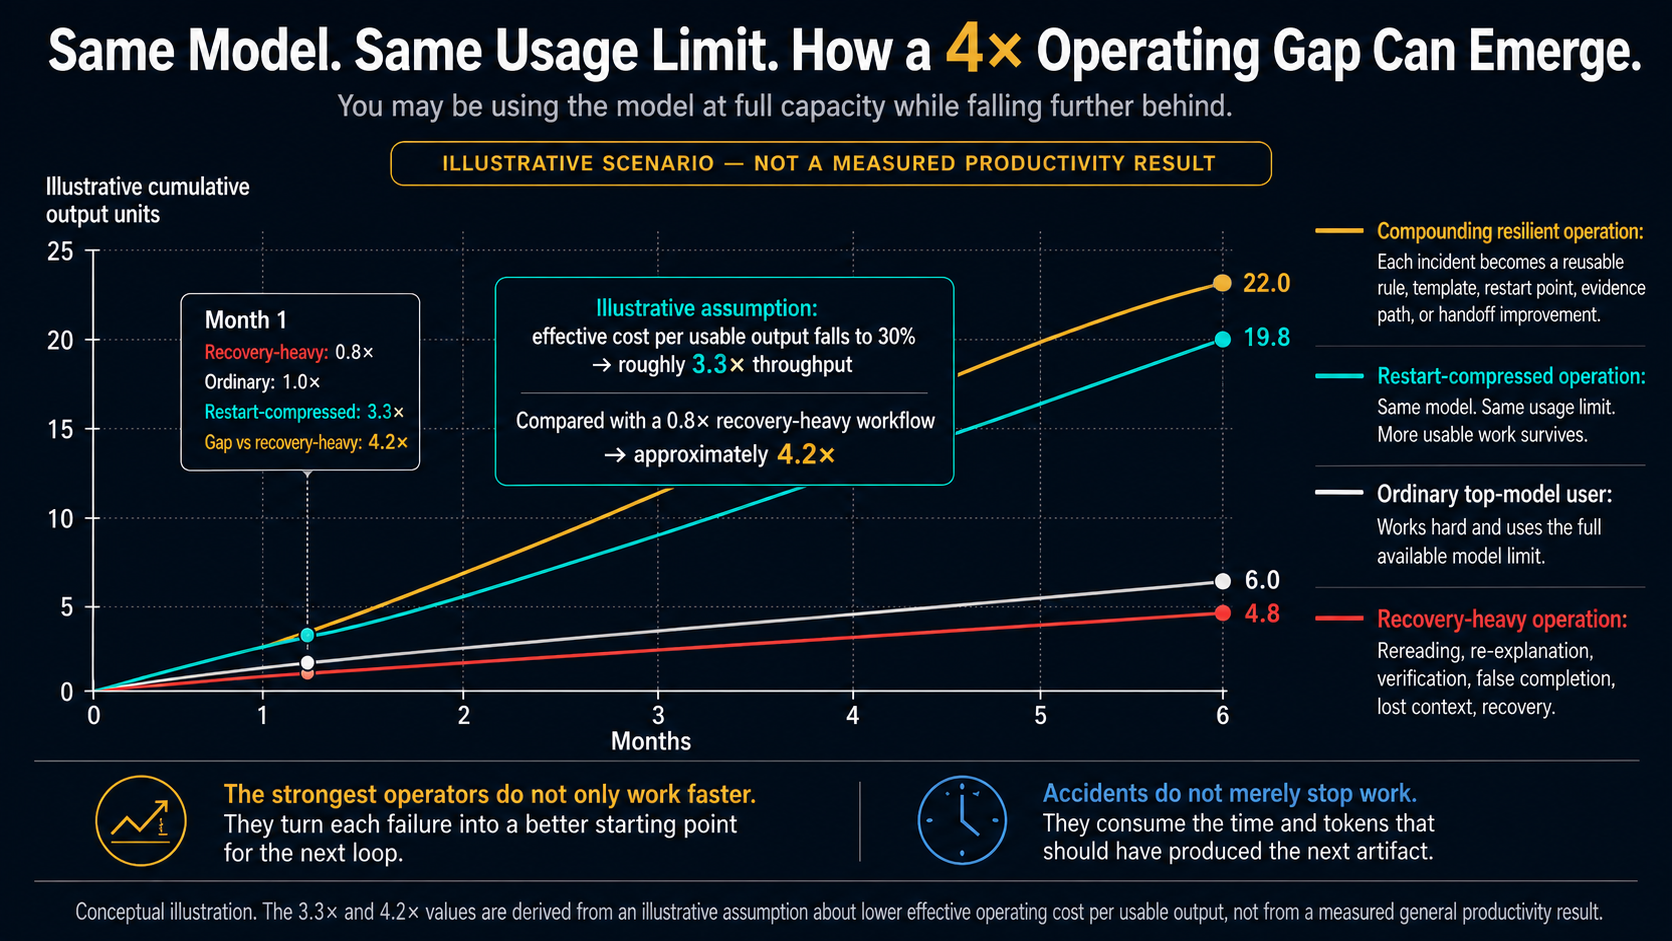
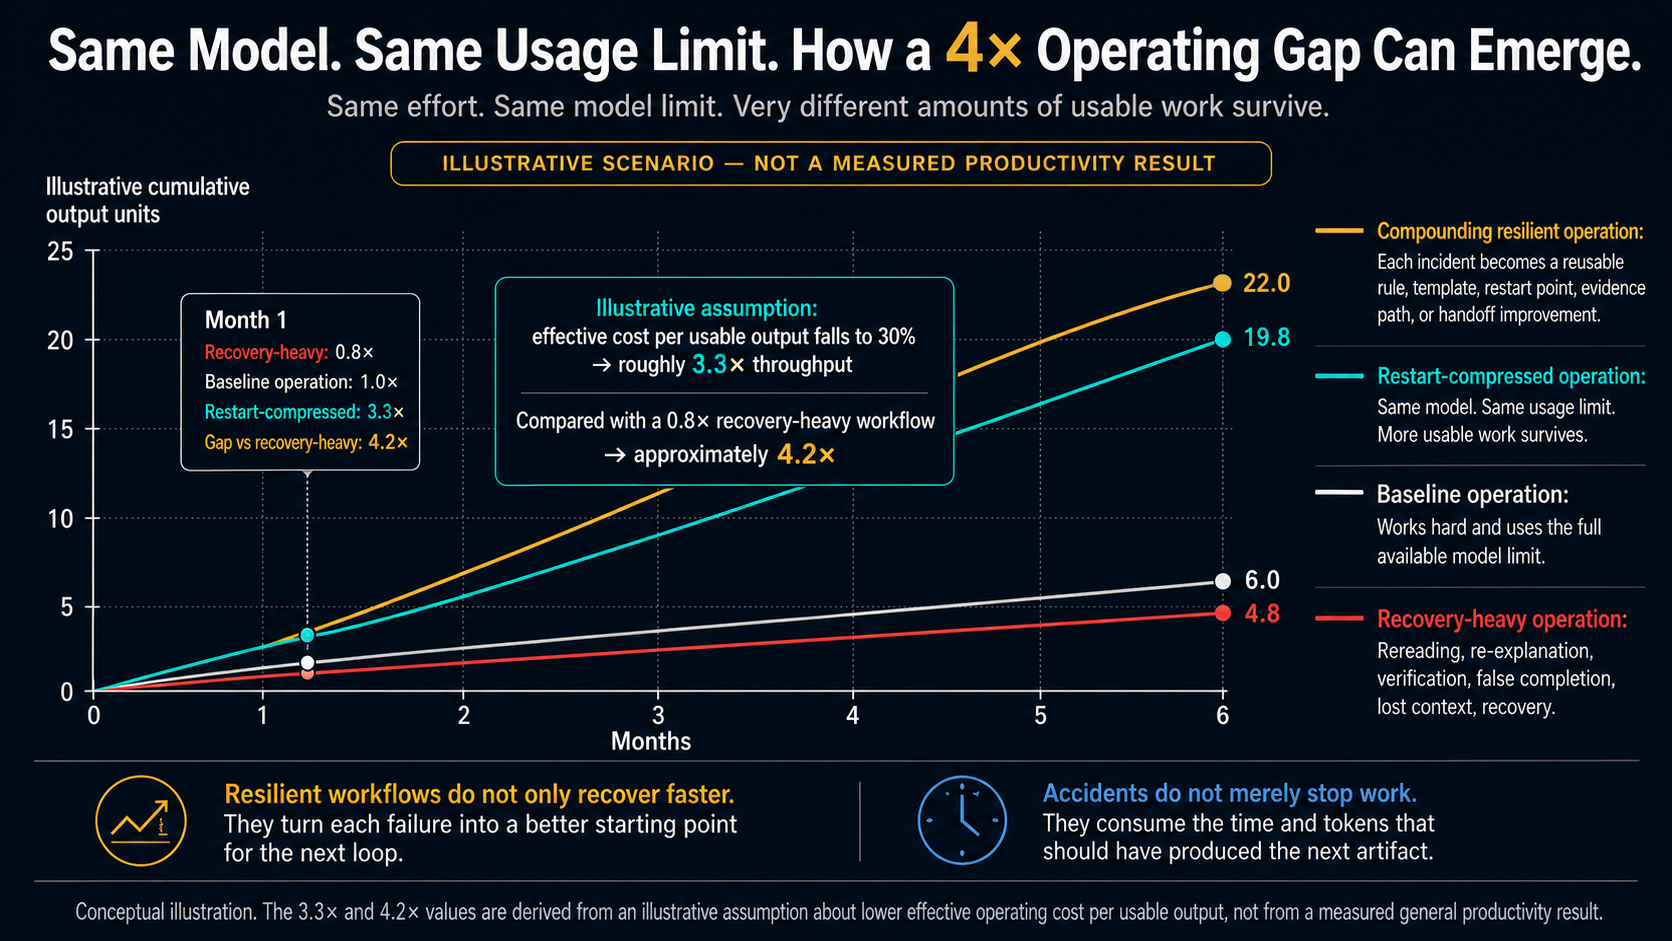
docs: apply localized neutral-copy patch to operating-gap chart

diff --git a/WORK_LOG.md b/WORK_LOG.md
@@ -87,3 +87,18 @@
 - Rollback point: `44cf9e0a2b7ec9919732317d7d7434cac0a46131`
 - Protected objects: `14,651 → 3,267` characters; `77.70%` character reduction; `192 / 192` registered restart items retained in scoring; fixed internal eight-case scope; character-versus-token boundary; no measured general productivity, time-saving, external-equivalence, or market-demand claim; operating-gap boundary and PNG identity; Social Preview identity; one-minute CTA and workflow; Formal Run terminal closure; Scientific Missing Closure; Shin's Decision Owner Seat.
 - Unchanged surfaces: both PNG files, `docs/operating-gap.md`, measured-result section, one-minute workflow, badges, Social Preview setting, About, topics, releases, tags, external posts, API, Skill, automation, runtime surfaces, Formal Run, scientific evidence, and private repository.
+
+## As-of 2026-07-21T16:47:37+0900 — OSI-OPERATING-GAP-LOCALIZED-TEXT-PATCH-01
+
+- Verified base HEAD: `69c4239c0467234fb5d4b2b6df4a8056cce1a08e`
+- Branch: `fix/operating-gap-localized-text-patch`
+- Changed files: `assets/marketing/osi-4x-operating-gap.png`, `WORK_LOG.md`
[1 lines of base64/hex data omitted]
+- Image dimensions: `1672 × 941` (unchanged)
+- Localized masks, inclusive pixel coordinates: `(306, 82)–(1370, 123)` subheadline; `(197, 368)–(409, 399)` Month 1 baseline label; `(1368, 474)–(1645, 510)` right-side baseline label; `(218, 775)–(805, 809)` bottom-left replacement statement first line.
+- Outside-mask changed pixels: `0`
+- Approved copy delta: replace the blame-oriented subheadline with “Same effort. Same model limit. Very different amounts of usable work survive.”; replace visible ordinary-user labels with “Baseline operation”; replace “The strongest operators do not only work faster.” with “Resilient workflows do not only recover faster.”
+- Reason: remove competence hierarchy and reader blame without globally rerendering the approved visual.
+- Bounded image-delta audit: `PASS`; donor pixels were copied only inside the four approved masks and all decoded pixels outside their union remain identical to the prior canonical image.
+- Rollback point: `69c4239c0467234fb5d4b2b6df4a8056cce1a08e`
+- Protected and unchanged surfaces: `4×` hook; acceleration-first positioning; illustrative/not-measured boundary; chart geometry, line identities, colors, and scenario values; one-minute CTA; `14,651 → 3,267`; `77.70%`; `192 / 192`; fixed internal eight-case evaluation; Social Preview identity; Formal Run terminal closure; Scientific Missing Closure; README and `docs/operating-gap.md` text; Shin's Decision Owner Seat.